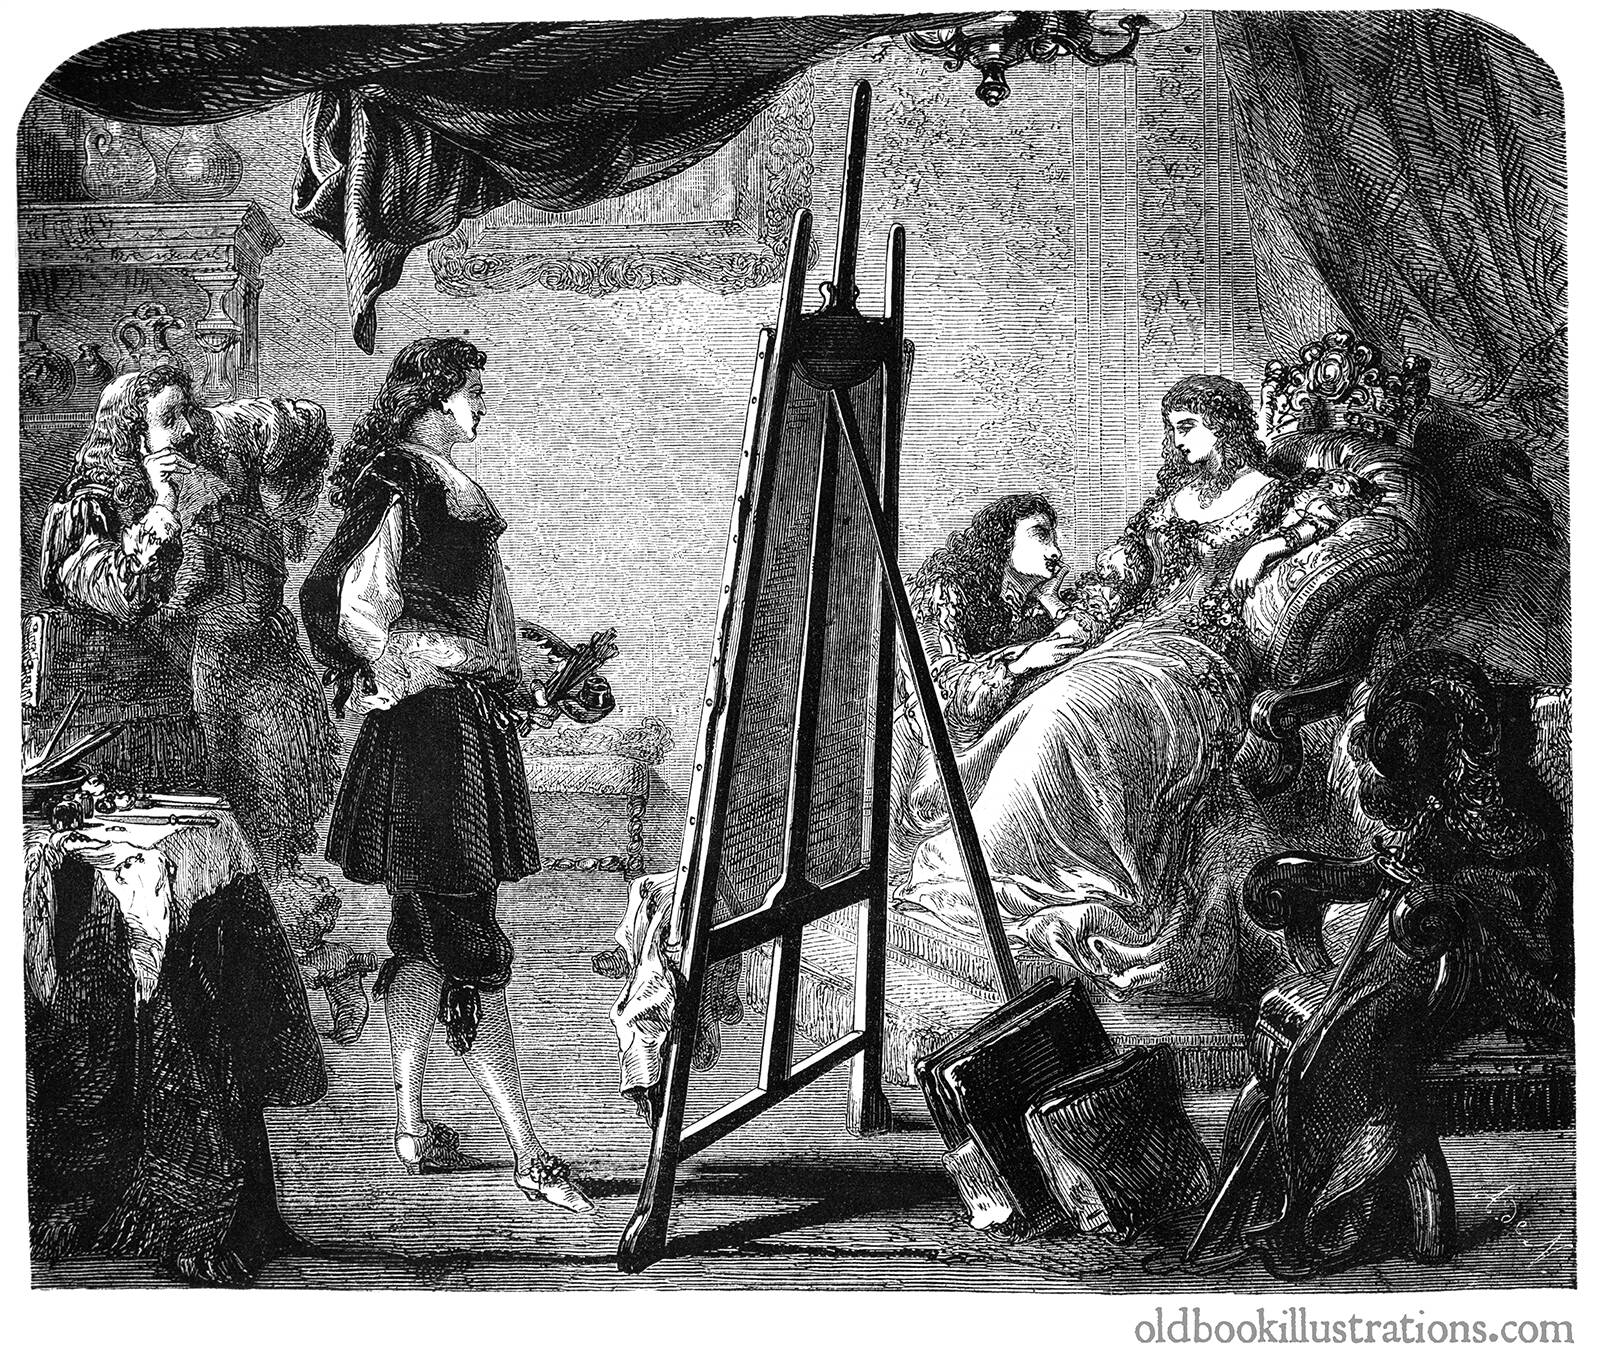
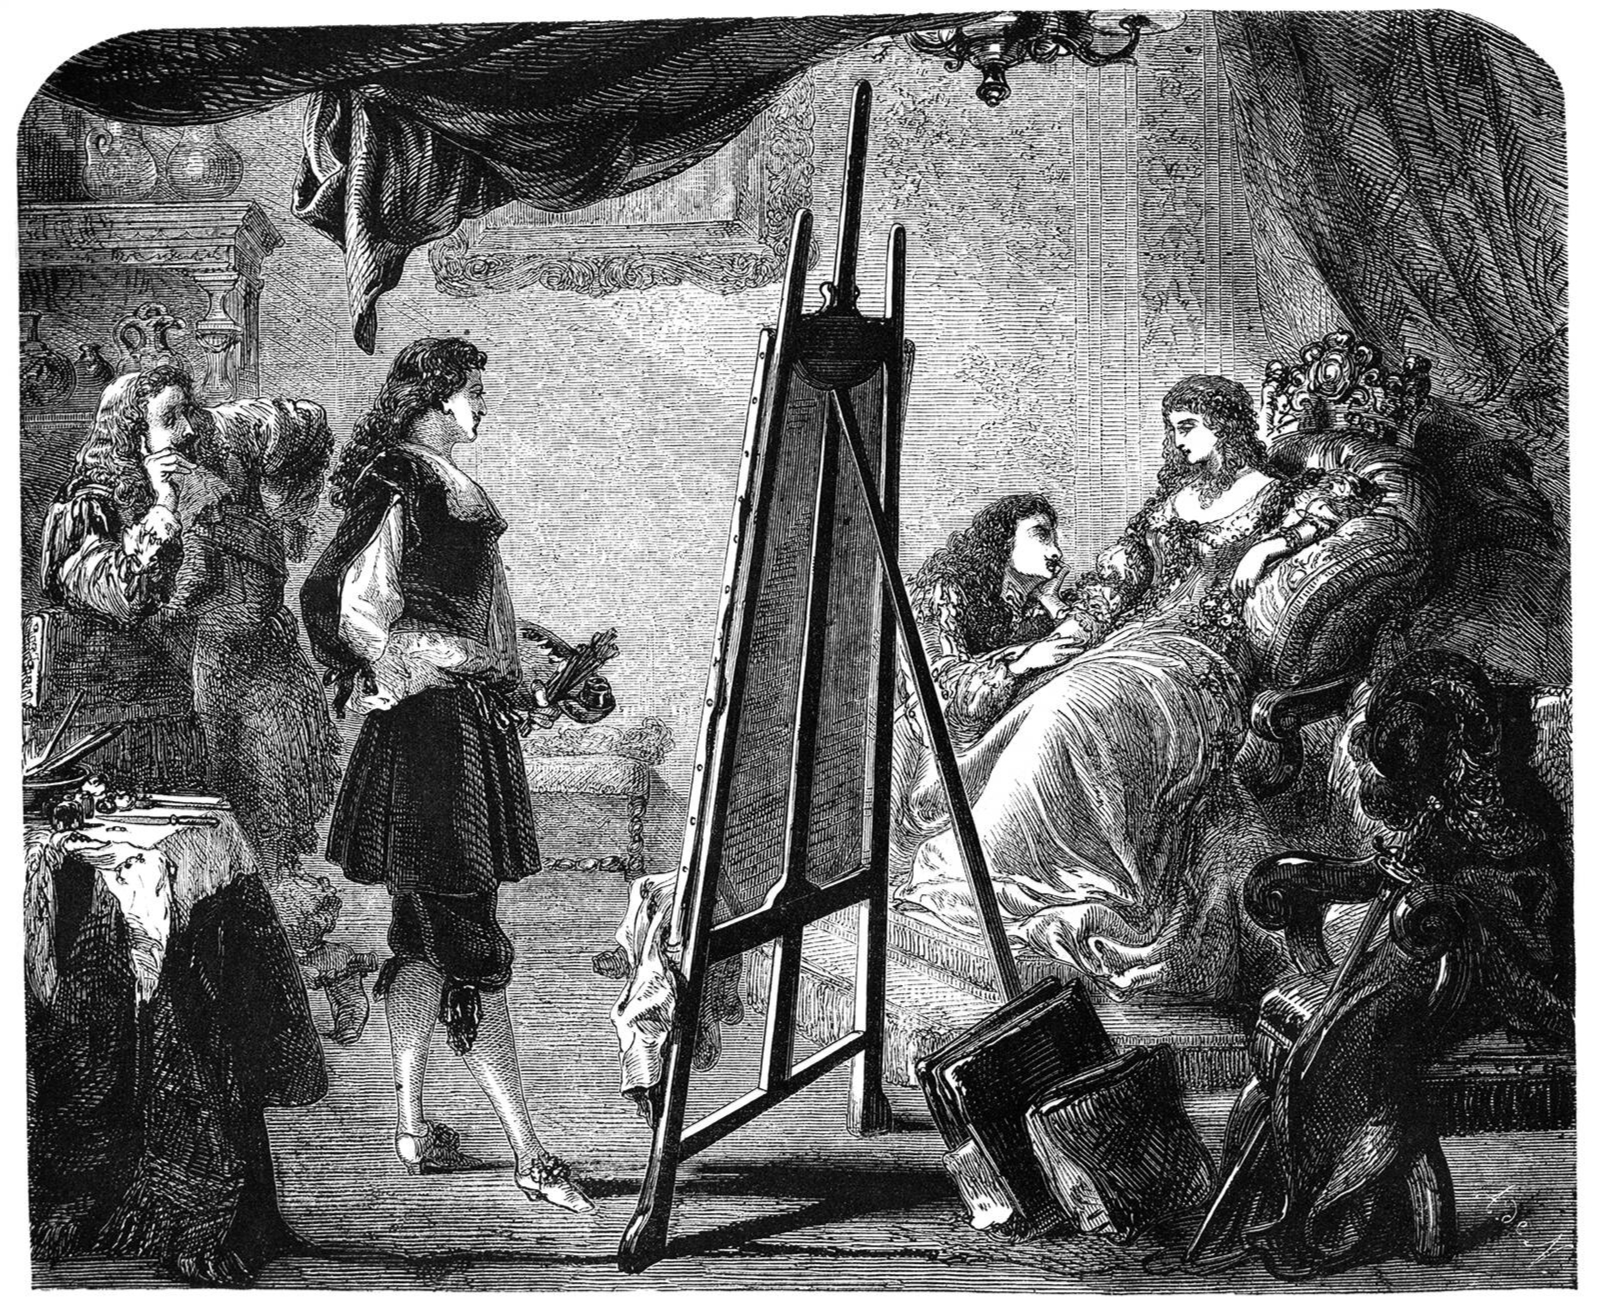
tidied up images and next

diff --git a/_includes/essays/newsletters.html b/_includes/essays/newsletters.html
@@ -2,7 +2,7 @@
 <html lang="en" class="no-js">
   <head>
     <meta charset="utf-8"/>
-    <title>Robin Rendle › On Newsletters</title>
+    <title>Robin Rendle › Newsletters</title>
     <meta name="author" content="Robin Rendle"/>
     <meta name="description" content=""/>
     <meta name="viewport" content="width=device-width, initial-scale=1.0"/>
@@ -65,6 +65,7 @@ body {
 }
 
 body {
+  font-size: 100%;
   display: flex;
   flex-direction: column;
   font-family: Aluminia, serif;
@@ -106,8 +107,8 @@ abbr {
 }
 
 .slide-text {
-  padding: 40px;
-  font-size: 30px;
+  padding: 40px 20px;
+  font-size: 1.55rem;
   background-color: #111;
   color: white;
   display: flex;
@@ -118,6 +119,8 @@ abbr {
 @media screen and (min-width: 767px) {
   .slide-text {
     width: 450px;
+    font-size: 1.875rem;
+    padding: 40px;
   }
 }
 
@@ -132,8 +135,9 @@ abbr {
 
 .slide-img {
   flex-grow: 1;
-  display: grid;
-  place-items: center;
+  display: flex;
+  align-items: center;
+  justify-content: center;
   animation: imageIn .5s easeIn forwards;
 }
 
@@ -144,8 +148,34 @@ abbr {
 }
 
 .slide-img img {
-  max-height: 80vh;
+  max-height: 70vh;
   max-width: 100%;
+}
+
+@media screen and (min-width: 767px) {
+  .slide-img img {
+    max-width: 100%;
+  }
+}
+
+.slide-img .slide-img__flowers {
+  max-width: 300px;
+}
+
+@media screen and (min-width: 767px) {
+  .slide-img .slide-img__flowers {
+    max-width: 400px;
+  }
+}
+
+.slide-img .slide-img__giant {
+  max-width: 400px;
+}
+
+@media screen and (min-width: 767px) {
+  .slide-img__coins {
+    max-width: 600px;
+  }
 }
 
 @keyframes imageIn {
@@ -178,10 +208,11 @@ abbr {
 }
 
 .slide-chapter .slide-text h2 {
-  color: #5e5e5e;
+  color: #ffc227;
   font-size: 1.5rem;
   text-transform: lowercase;
   font-variant: small-caps;
+  font-weight: 400;
 }
 
 .slide-chapter .slide-text h2,
@@ -194,7 +225,7 @@ abbr {
 }
 
 .date {
-  color: #5e5e5e;
+  color: #ffc227;
   font-size: .8em;
   text-transform: lowercase;
   font-variant: small-caps;
@@ -213,6 +244,10 @@ h1 {
   margin: 0;
   font-weight: 400;
   font-size: 1em;
+}
+
+a {
+  color: #ffc227;
 }
 
   </style>

diff --git a/_essays/newsletters.md b/_essays/newsletters.md
@@ -1,7 +1,7 @@
 ---
-title: On Newsletters
+title: Newsletters
 date: 2021-01-01 09:00:00 -08:00
-layout: essays/on-newsletters
+layout: essays/newsletters
 city: San Francisco
 country: California
 extract: Is this progress?
@@ -83,10 +83,10 @@ extract: Is this progress?
 
   <div class="slide">
     <div class="slide-img">
-      <img alt="A horseshoe geranium flower" src="/uploads/essays/on-newsletters/08-flower-horseshoe-geranium.jpg" loading="lazy"/>
+      <img class="slide-img__flowers" alt="A horseshoe geranium flower" src="/uploads/essays/on-newsletters/08-flower-horseshoe-geranium.jpg" loading="lazy"/>
     </div>
     <div class="slide-text">
-      <p>Not to mention the smaller newsletters, too. Break-ups! Coffee beans! Clocks! Northumberland flower gardens! And all of these sit side by side with newsletters that are outstandingly, unabashedly&hellip;</p>
+      <p>Not to forget smaller newsletters, too. Break-ups! Coffee beans! Clocks! Northumberland flower gardens! These sit side by side newsletters that are just&hellip;</p>
     </div>
   </div>
 
@@ -104,7 +104,7 @@ extract: Is this progress?
       <img alt="A group of women at the post office" src="/uploads/essays/on-newsletters/10-post-office.jpg" loading="lazy"/>
     </div>
     <div class="slide-text">
-      <p>So my question here is a difficult one to ask, because I love newsletters so very much, but&hellip;</p>
+      <p>So my question here is a difficult one to ask, because I love newsletters so very much&hellip;</p>
     </div>
   </div>
 
@@ -114,7 +114,7 @@ extract: Is this progress?
       <img alt="An astronomer looks up at the stars" src="/uploads/essays/on-newsletters/11-herschel.jpg" loading="lazy"/>
     </div>
     <div class="slide-text">
-      <p>&hellip;is this progress?</p>
+      <p>&hellip;but is this progress?</p>
     </div>
   </div>
 
@@ -157,7 +157,7 @@ extract: Is this progress?
 
   <div class="slide">
     <div class="slide-img">
-      <img alt="A man sits in a cave surrounded by coins" src="/uploads/essays/on-newsletters/16-lilliputian-troops-marching.jpg" loading="lazy"/>
+      <img class="slide-img__giant" alt="A man sits in a cave surrounded by coins" src="/uploads/essays/on-newsletters/16-lilliputian-troops-marching.jpg" loading="lazy"/>
     </div>
     <div class="slide-text">
       <p>But the real advantage with newsletters is that they give us super powers. You don’t need to learn about <abbr title="Hypertext markup language">HTML</abbr> or <abbr title="Cascading stylesheets">CSS</abbr> or databases to get started.</p>
@@ -260,7 +260,7 @@ extract: Is this progress?
       <p>Alternatively, websites today&hellip;</p>
       <ol>
         <li>Are difficult to make.</li>
-        <li>Can’t notify people of new stuff.</li>
+        <li>Can’t notify people of new work.</li>
         <li>Aren’t able to pay writers easily.</li>
       </ol>
     </div>
@@ -359,7 +359,7 @@ extract: Is this progress?
       <img alt="Looting a pirate ship of its treasure" src="/uploads/essays/on-newsletters/37-wolves-wolves.jpg" loading="lazy"/>
     </div>
     <div class="slide-text">
-      <p>The solution? Well, there’s a lot of different answers here, but one thing I’m dead certain of is that startups shouldn’t be fixing this for us.</p>
+      <p>The solution? Well, I have a few ideas, but one thing I’m dead certain of is that startups shouldn’t be fixing this for us.</p>
     </div>
   </div>
 
@@ -393,7 +393,7 @@ extract: Is this progress?
   <div class="slide slide-chapter">
     <div class="slide-text">
       <h2>Part Two</h2>
-      <p>RSS is for nerds</p>
+      <p>RSS is for Nerds</p>
     </div>
   </div>
 
@@ -438,7 +438,7 @@ extract: Is this progress?
       <img alt="Fortifications outside the city walls of the Alhambra" src="/uploads/essays/on-newsletters/45-alhambra-entrance.jpg" loading="lazy"/>
     </div>
     <div class="slide-text">
-      <p>Basically my whole political platform is this: <abbr title="Really Simple Syndication">RSS</abbr> is the promised land for writers.</p>
+      <p>Basically my whole political platform is this: <abbr title="Really Simple Syndication">RSS</abbr> is the promised land.</p>
     </div>
   </div>
 
@@ -456,7 +456,7 @@ extract: Is this progress?
       <img alt="Manufacturing glass bottles" src="/uploads/essays/on-newsletters/47-manufacture-bottles.jpg" loading="lazy"/>
     </div>
     <div class="slide-text">
-      <p>The problem with <abbr title="Really Simple Syndication">RSS</abbr> is that you need to know that RSS exists, how it works, which websites support it, etc. Like I said: an enormous faff.</p>
+      <p>The problem with <abbr title="Really Simple Syndication">RSS</abbr> is that you need to know that <abbr title="Really Simple Syndication">RSS</abbr> exists, how it works, which websites support it, etc. It’s nothing short of an enormous faff.</p>
     </div>
   </div>
 
@@ -465,7 +465,7 @@ extract: Is this progress?
       <img alt="A microscope" src="/uploads/essays/on-newsletters/48-microscope.jpg" loading="lazy"/>
     </div>
     <div class="slide-text">
-      <p>It’s not like <abbr title="Really Simple Syndication">RSS</abbr> is brain surgery but it’s hidden away and just complicated enough that 99% of folks won’t care about it.</p>
+      <p>But it’s not like <abbr title="Really Simple Syndication">RSS</abbr> is brain surgery, the problem is that it’s hidden away and just complicated enough that 99% of folks won’t care about it.</p>
     </div>
   </div>
 
@@ -474,7 +474,7 @@ extract: Is this progress?
       <img alt="An enormous steam hammer" src="/uploads/essays/on-newsletters/49-creusot-steam-hammer.jpg" loading="lazy"/>
     </div>
     <div class="slide-text">
-      <p>“But <abbr title="Really Simple Syndication">RSS</abbr> was just for nerds!” you might say. Well, <abbr title="Really Simple Syndication">RSS</abbr>-the-technology today is fantastically popular—it’s the machine that powers podcasts. So how can <abbr title="Really Simple Syndication">RSS</abbr> be just for nerds if we use it everyday for podcasts?</p>
+      <p>“<abbr title="Really Simple Syndication">RSS</abbr> was just for nerds!” you might say. Well, <abbr title="Really Simple Syndication">RSS</abbr>-the-technology today is fantastically popular—it’s the machine that powers podcasts. So how can <abbr title="Really Simple Syndication">RSS</abbr> be just for nerds if we use it everyday for audio?</p>
     </div>
   </div>
 
@@ -483,7 +483,7 @@ extract: Is this progress?
       <img alt="An enormous steam hammer" src="/uploads/essays/on-newsletters/50-halleys-diving-bell.jpg" loading="lazy"/>
     </div>
     <div class="slide-text">
-      <p>I reckon <abbr title="Really Simple Syndication">RSS</abbr> never reached critical scale for websites because it was never built into the browser itself. The failure here wasn’t the technology but the distance between <abbr title="Really Simple Syndication">RSS</abbr> and the browser.</p>
+      <p>I reckon <abbr title="Really Simple Syndication">RSS</abbr> never reached critical scale for websites because it was never built into the browser itself. The failure here wasn’t the technology but the distance between <abbr title="Really Simple Syndication">RSS</abbr> and how we browse the web.</p>
     </div>
   </div>
 
@@ -492,7 +492,7 @@ extract: Is this progress?
       <img alt="Eads Bridge" src="/uploads/essays/on-newsletters/51-eads-bridge.jpg" loading="lazy"/>
     </div>
     <div class="slide-text">
-      <p>But if <abbr title="Really Simple Syndication">RSS</abbr> was renamed, rebranded, and brought to the surface of the browser then I expect legions of people would adore it. No longer would you have to give all these strangers your email address to sign up for the newsletter. </p>
+      <p>Here me out: if <abbr title="Really Simple Syndication">RSS</abbr> was renamed, rebranded, and brought to the surface of the browser then I expect legions of people would adore it. No longer would you have to give all these strangers your email address to sign up for the newsletter. </p>
     </div>
   </div>
 
@@ -501,7 +501,7 @@ extract: Is this progress?
       <img alt="A skeleton pursues a man on a bobsled" src="/uploads/essays/on-newsletters/52-demon-pursuer.jpg" loading="lazy"/>
     </div>
     <div class="slide-text">
-      <p>And if we could subscribe to websites once again then maybe the web itself might not feel quite so forgettable.</p>
+      <p>And if we could subscribe to websites once again then the web itself might not feel quite so forgettable.</p>
     </div>
   </div>
 
@@ -559,10 +559,10 @@ extract: Is this progress?
 
   <div class="slide">
     <div class="slide-img">
-      <img alt="Coins" src="/uploads/essays/on-newsletters/58-coins.jpg" loading="lazy"/>
+      <img class="slide-img__coins" alt="Coins" src="/uploads/essays/on-newsletters/58-coins.jpg" loading="lazy"/>
     </div>
     <div class="slide-text">
-      <p>There are neat developments in this space: services such as Coil or web browsers like Puma are worth paying attention to because they’re trying to upend the way that money is distributed on the web today.</p>
+      <p>There are neat developments in this space: services such as Coil or web browsers like Puma are worth paying attention to because they’re trying to upend the way that money is distributed on the web.</p>
     </div>
   </div>
 
@@ -571,7 +571,7 @@ extract: Is this progress?
       <img alt="" src="/uploads/essays/on-newsletters/59-dragged.jpg" loading="lazy"/>
     </div>
     <div class="slide-text">
-      <p>There’s also, well, brace yourself: the Web Monetization API. That sounds scary! But I think it’s where things get truly interesting.</p>
+      <p>There’s also, well, brace yourself: the Web Monetization <abbr tite="Application programming interface">API</abbr>. That sounds scary! But I think it’s where things get truly interesting (although it’s still far too complicated for most writers to benefit from).</p>
     </div>
   </div>
 
@@ -589,7 +589,7 @@ extract: Is this progress?
       <img alt="A young boy rides a strange contraption" src="/uploads/essays/on-newsletters/61-deghens-machine.jpg" loading="lazy"/>
     </div>
     <div class="slide-text">
-      <p>Writers choose a newsletter service like Substack because the business model is straight forward. I just sort of wish this infrastructure was built into the writers’s websites themselves.</p>
+      <p>Also, writers choose a newsletter service like Substack because the business model is straight forward. I just sort of wish this infrastructure was built into the writers’s websites themselves.</p>
     </div>
   </div>
 
@@ -598,7 +598,7 @@ extract: Is this progress?
       <img alt="A man is led into a secret door by the devil" src="/uploads/essays/on-newsletters/62-stealing.jpg" loading="lazy"/>
     </div>
     <div class="slide-text">
-      <p>Anyway, there’s a viable alternative to newsletters if we fill in all these gaps.</p>
+      <p>My point is this: there’s a viable alternative to newsletters if we fill in all these gaps.</p>
     </div>
   </div>
 
@@ -645,7 +645,7 @@ extract: Is this progress?
       <img alt="A woman reads a letter" src="/uploads/essays/on-newsletters/67-imogen.jpg" loading="lazy"/>
     </div>
     <div class="slide-text">
-      <p>What really excites me about the sudden popularity of newsletters is this: it shows us that people desperately want this kind of writing. They value the web in the same way that I do.</p>
+      <p>What really excites me about the sudden popularity of newsletters is that it shows us how people desperately want this kind of writing still. They value the web in the same way that I do.</p>
     </div>
   </div>
 
@@ -674,7 +674,7 @@ extract: Is this progress?
       <img alt="Making a toast at dinner" src="/uploads/essays/on-newsletters/70-toast.jpg" loading="lazy"/>
     </div>
     <div class="slide-text">
-      <p>Thanks to everyone that helped me figure out these notes. Special thanks to Old Book Illustations for the lovely woodcuts and metal engravings, Lucy Bellwood for editing, and the Letterform Archive for the LfA Aluminia type family.</p>
+      <p>Thanks to everyone that helped me figure out these notes. Special thanks to <a href="https://www.oldbookillustrations.com/">Old Book Illustations</a> for the lovely woodcuts and metal engravings, <a href="https://lucybellwood.com">Lucy Bellwood</a> for editing, Crick for listening to these rants, and the Letterform Archive for the <a href="https://shop.letterformarchive.org/products/aluminia-fonts?variant=7014645497892">LfA Aluminia</a> type family.</p>
     </div>
   </div>
 
